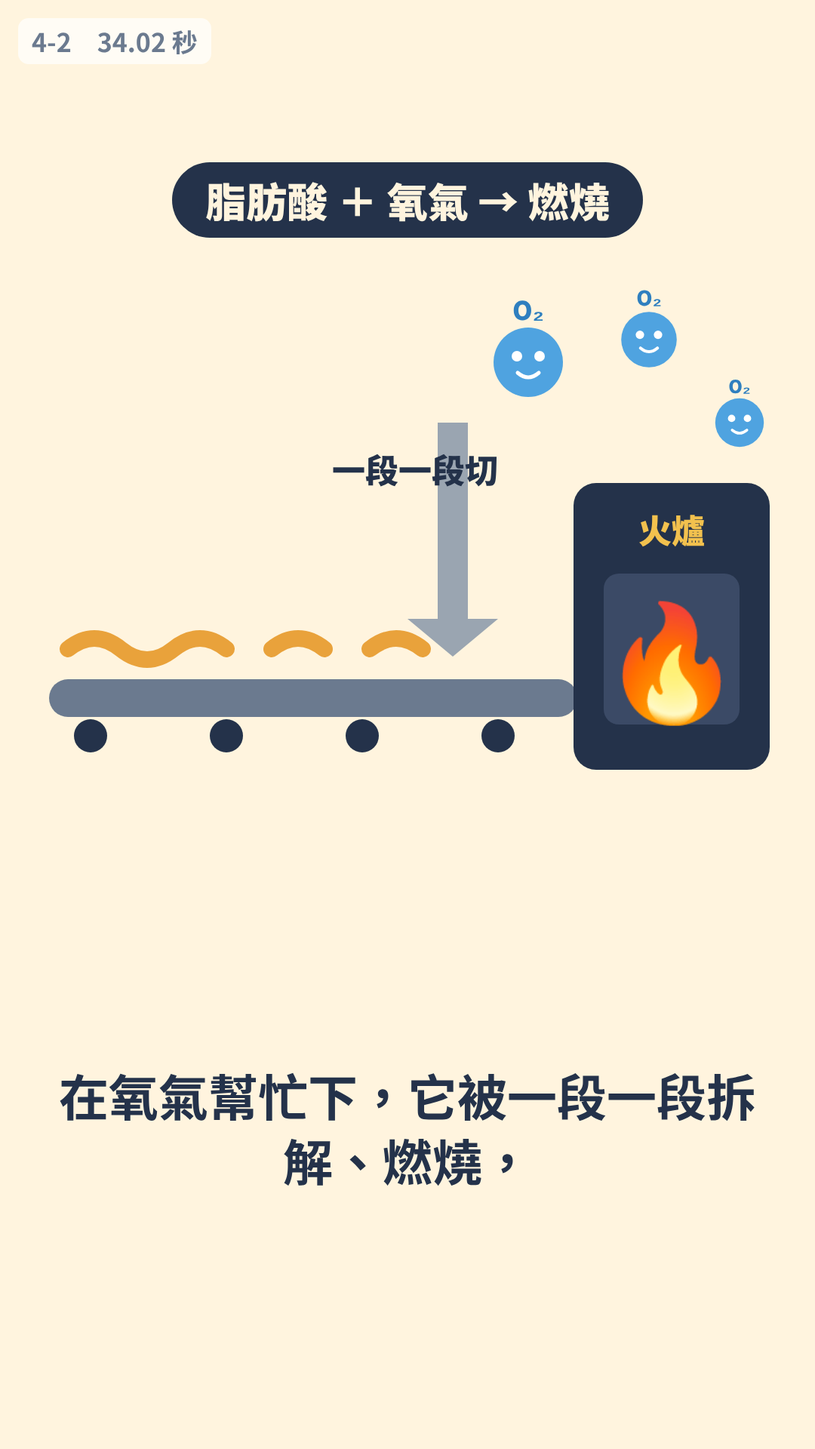
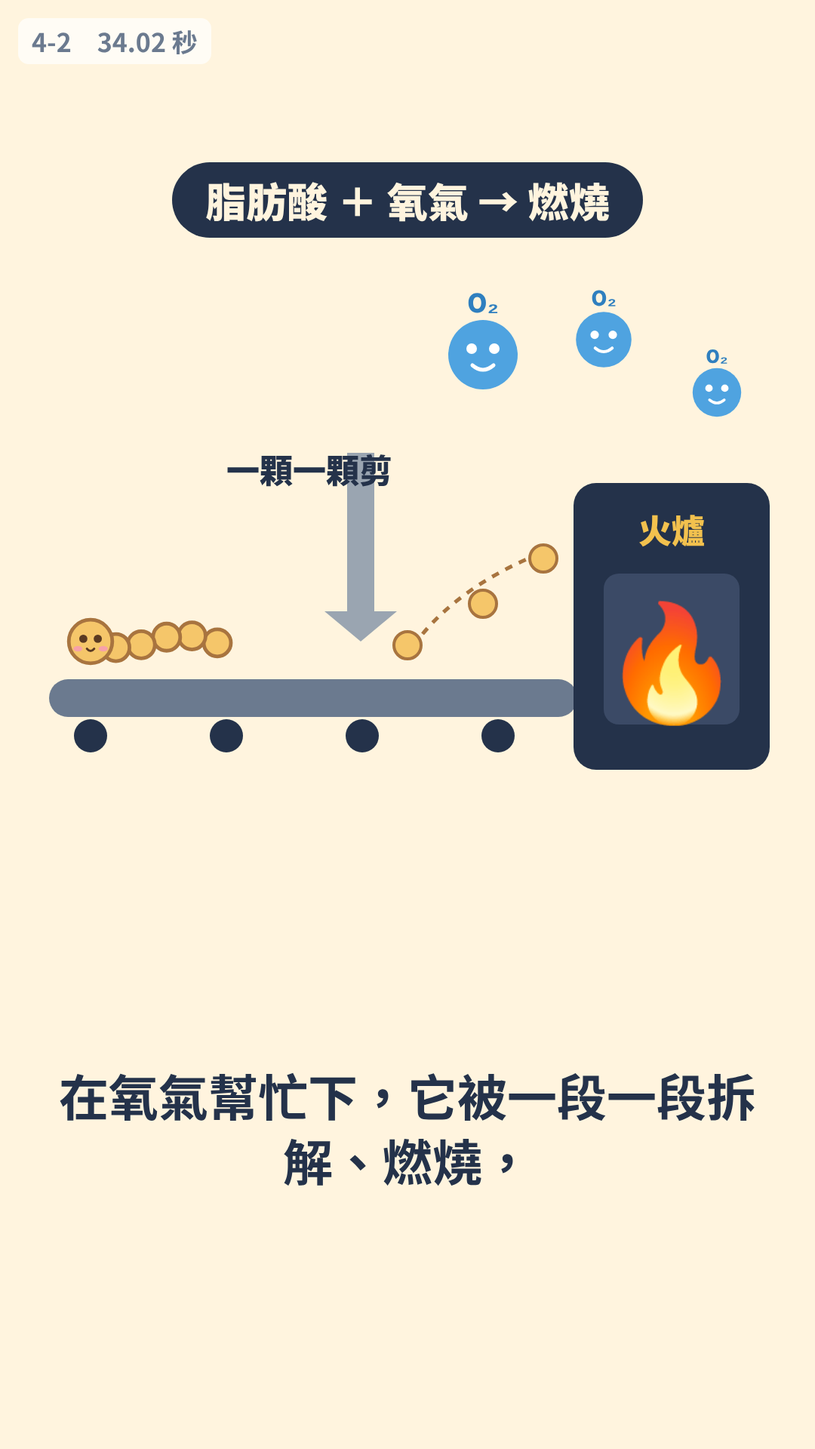
脂肪專案：油油改成麻糬造型＋串珠尾巴、阿肥改成女性、新增角色設定圖
Claude-Session: https://claude.ai/code/session_014fzaRRSj4catvv5FGHfu2h

Changed region(s): [[0.0611, 0.1875, 0.825, 0.4688], [0.8556, 0.25, 0.9472, 0.3125], [0.6417, 0.375, 0.7028, 0.4062]]

diff --git a/projects/where-does-fat-go/storyboard/frames/frames.html b/projects/where-does-fat-go/storyboard/frames/frames.html
@@ -36,57 +36,29 @@
 <!-- 共用角色 -->
 <svg width="0" height="0" style="position:absolute">
   <defs>
-    <!-- 油油：中心(0,0)，寬約 240 -->
-    <g id="yy">
-      <path d="M95,-10 q40,-30 70,-5 t70,-10" fill="none" stroke="#E9A23B" stroke-width="18" stroke-linecap="round"/>
-      <path d="M100,20 q40,-25 70,0 t70,-5" fill="none" stroke="#E9A23B" stroke-width="18" stroke-linecap="round"/>
-      <path d="M95,50 q40,-20 70,5 t70,0" fill="none" stroke="#E9A23B" stroke-width="18" stroke-linecap="round"/>
-      <path d="M0,-120 C70,-60 115,-10 115,40 A115,105 0 0 1 -115,40 C-115,-10 -70,-60 0,-120 Z" fill="#F6C945" stroke="#D9A21B" stroke-width="8"/>
-      <ellipse cx="-45" cy="-10" rx="22" ry="12" fill="#fff" opacity=".6"/>
-      <circle cx="-35" cy="30" r="11" fill="#24324A"/><circle cx="25" cy="30" r="11" fill="#24324A"/>
-      <path d="M-25,62 q20,18 40,0" fill="none" stroke="#24324A" stroke-width="7" stroke-linecap="round"/>
-      <circle cx="-62" cy="58" r="13" fill="#F4A261" opacity=".6"/><circle cx="55" cy="58" r="13" fill="#F4A261" opacity=".6"/>
-    </g>
-    <g id="yy-sleep">
-      <path d="M95,-10 q40,-30 70,-5 t70,-10" fill="none" stroke="#E9A23B" stroke-width="18" stroke-linecap="round"/>
-      <path d="M100,20 q40,-25 70,0 t70,-5" fill="none" stroke="#E9A23B" stroke-width="18" stroke-linecap="round"/>
-      <path d="M95,50 q40,-20 70,5 t70,0" fill="none" stroke="#E9A23B" stroke-width="18" stroke-linecap="round"/>
-      <path d="M0,-120 C70,-60 115,-10 115,40 A115,105 0 0 1 -115,40 C-115,-10 -70,-60 0,-120 Z" fill="#F6C945" stroke="#D9A21B" stroke-width="8"/>
-      <path d="M-48,30 q13,10 26,0 M12,30 q13,10 26,0" fill="none" stroke="#24324A" stroke-width="7" stroke-linecap="round"/>
-      <text x="-30" y="-140" font-size="70" font-weight="900" fill="#6B7A8F">z</text>
-      <text x="10" y="-180" font-size="50" font-weight="900" fill="#6B7A8F">z</text>
-    </g>
-    <!-- 甘油（油油的身體，沒有尾巴） -->
-    <g id="gly">
-      <path d="M0,-120 C70,-60 115,-10 115,40 A115,105 0 0 1 -115,40 C-115,-10 -70,-60 0,-120 Z" fill="#F6C945" stroke="#D9A21B" stroke-width="8"/>
-      <circle cx="-35" cy="30" r="11" fill="#24324A"/><circle cx="25" cy="30" r="11" fill="#24324A"/>
-      <path d="M-25,62 q20,18 40,0" fill="none" stroke="#24324A" stroke-width="7" stroke-linecap="round"/>
-    </g>
-    <!-- 脂肪酸（一條尾巴，有眼睛） -->
-    <g id="fa">
-      <path d="M0,0 q35,-28 70,0 t70,0 t70,0" fill="none" stroke="#E9A23B" stroke-width="22" stroke-linecap="round"/>
-      <circle cx="-2" cy="-3" r="20" fill="#E9A23B"/>
-      <circle cx="-8" cy="-6" r="5" fill="#24324A"/><circle cx="6" cy="-6" r="5" fill="#24324A"/>
-    </g>
-    <!-- 阿肥：腳底在 (0,0)，高約 620 -->
-    <g id="af">
-      <rect x="-70" y="-260" width="58" height="260" rx="22" fill="#2F3E5C"/>
-      <rect x="12" y="-260" width="58" height="260" rx="22" fill="#2F3E5C"/>
-      <ellipse cx="-42" cy="-6" rx="46" ry="20" fill="#24324A"/><ellipse cx="42" cy="-6" rx="46" ry="20" fill="#24324A"/>
-      <path d="M-105,-250 L-95,-430 Q0,-470 95,-430 L105,-250 Z" fill="#FFFFFF" stroke="#D5DCE5" stroke-width="6"/>
-      <path d="M0,-440 l-16,24 l16,120 l16,-120 Z" fill="#4FA3E0"/>
-      <circle cx="0" cy="-525" r="88" fill="#F5C9A6"/>
-      <path d="M-88,-540 Q-80,-630 0,-625 Q85,-630 90,-545 Q60,-585 0,-580 Q-55,-585 -88,-540 Z" fill="#3A2E2A"/>
-      <circle cx="-30" cy="-520" r="10" fill="#24324A"/><circle cx="30" cy="-520" r="10" fill="#24324A"/>
-      <path d="M-26,-480 q26,22 52,0" fill="none" stroke="#24324A" stroke-width="7" stroke-linecap="round"/>
-    </g>
-    <g id="arm-l"><rect x="-150" y="-430" width="46" height="190" rx="22" fill="#FFFFFF" stroke="#D5DCE5" stroke-width="6"/><circle cx="-127" cy="-232" r="26" fill="#F5C9A6"/></g>
-    <g id="arm-r"><rect x="104" y="-430" width="46" height="190" rx="22" fill="#FFFFFF" stroke="#D5DCE5" stroke-width="6"/><circle cx="127" cy="-232" r="26" fill="#F5C9A6"/></g>
-    <!-- 電量條 -->
+    <radialGradient id="mochi" cx="40%" cy="25%" r="85%"><stop offset="0" stop-color="#FFF6D8"/><stop offset=".55" stop-color="#FBE2A0"/><stop offset="1" stop-color="#F2C46E"/></radialGradient>
+    <g id="yy"><circle cx="100.0" cy="-40.0" r="13.0" fill="#F5C66A" stroke="#A8743F" stroke-width="4"/><circle cx="124.0" cy="-31.8" r="12.4" fill="#F5C66A" stroke="#A8743F" stroke-width="4"/><circle cx="148.0" cy="-19.2" r="11.8" fill="#F5C66A" stroke="#A8743F" stroke-width="4"/><circle cx="172.0" cy="-2.2" r="11.2" fill="#F5C66A" stroke="#A8743F" stroke-width="4"/><circle cx="196.0" cy="19.2" r="10.6" fill="#F5C66A" stroke="#A8743F" stroke-width="4"/><circle cx="220.0" cy="45.0" r="10.0" fill="#F5C66A" stroke="#A8743F" stroke-width="4"/><circle cx="112.0" cy="0.0" r="13.0" fill="#F5C66A" stroke="#A8743F" stroke-width="4"/><circle cx="137.0" cy="12.0" r="12.4" fill="#F5C66A" stroke="#A8743F" stroke-width="4"/><circle cx="162.0" cy="28.0" r="11.8" fill="#F5C66A" stroke="#A8743F" stroke-width="4"/><circle cx="187.0" cy="48.0" r="11.2" fill="#F5C66A" stroke="#A8743F" stroke-width="4"/><circle cx="212.0" cy="72.0" r="10.6" fill="#F5C66A" stroke="#A8743F" stroke-width="4"/><circle cx="237.0" cy="100.0" r="10.0" fill="#F5C66A" stroke="#A8743F" stroke-width="4"/><circle cx="104.0" cy="40.0" r="13.0" fill="#F5C66A" stroke="#A8743F" stroke-width="4"/><circle cx="126.0" cy="57.6" r="12.4" fill="#F5C66A" stroke="#A8743F" stroke-width="4"/><circle cx="148.0" cy="78.4" r="11.8" fill="#F5C66A" stroke="#A8743F" stroke-width="4"/><circle cx="170.0" cy="102.4" r="11.2" fill="#F5C66A" stroke="#A8743F" stroke-width="4"/><circle cx="192.0" cy="129.6" r="10.6" fill="#F5C66A" stroke="#A8743F" stroke-width="4"/><circle cx="214.0" cy="160.0" r="10.0" fill="#F5C66A" stroke="#A8743F" stroke-width="4"/><path d="M-122,62 C-132,-40 -72,-112 0,-112 C72,-112 132,-40 122,62 Q119,88 92,90 H-92 Q-119,88 -122,62 Z" fill="url(#mochi)" stroke="#A8743F" stroke-width="7"/><ellipse cx="-62" cy="-70" rx="26" ry="11" fill="#fff" opacity=".85" transform="rotate(-32 -62 -70)"/><circle cx="-30" cy="-88" r="6" fill="#fff" opacity=".85"/><ellipse cx="-78" cy="50" rx="20" ry="12" fill="#F7A1A8" opacity=".8"/><ellipse cx="78" cy="50" rx="20" ry="12" fill="#F7A1A8" opacity=".8"/><circle cx="-46" cy="26" r="15" fill="#5A3A22"/><circle cx="46" cy="26" r="15" fill="#5A3A22"/><circle cx="-41" cy="20" r="5" fill="#fff"/><circle cx="51" cy="20" r="5" fill="#fff"/><path d="M-15,46 q7.5,10 15,0 q7.5,10 15,0" fill="none" stroke="#5A3A22" stroke-width="5" stroke-linecap="round"/></g>
+    <g id="yy-walk"><g transform="translate(0,90) scale(1.12,.86) translate(0,-90)"><circle cx="100.0" cy="-40.0" r="13.0" fill="#F5C66A" stroke="#A8743F" stroke-width="4"/><circle cx="124.0" cy="-31.8" r="12.4" fill="#F5C66A" stroke="#A8743F" stroke-width="4"/><circle cx="148.0" cy="-19.2" r="11.8" fill="#F5C66A" stroke="#A8743F" stroke-width="4"/><circle cx="172.0" cy="-2.2" r="11.2" fill="#F5C66A" stroke="#A8743F" stroke-width="4"/><circle cx="196.0" cy="19.2" r="10.6" fill="#F5C66A" stroke="#A8743F" stroke-width="4"/><circle cx="220.0" cy="45.0" r="10.0" fill="#F5C66A" stroke="#A8743F" stroke-width="4"/><circle cx="112.0" cy="0.0" r="13.0" fill="#F5C66A" stroke="#A8743F" stroke-width="4"/><circle cx="137.0" cy="12.0" r="12.4" fill="#F5C66A" stroke="#A8743F" stroke-width="4"/><circle cx="162.0" cy="28.0" r="11.8" fill="#F5C66A" stroke="#A8743F" stroke-width="4"/><circle cx="187.0" cy="48.0" r="11.2" fill="#F5C66A" stroke="#A8743F" stroke-width="4"/><circle cx="212.0" cy="72.0" r="10.6" fill="#F5C66A" stroke="#A8743F" stroke-width="4"/><circle cx="237.0" cy="100.0" r="10.0" fill="#F5C66A" stroke="#A8743F" stroke-width="4"/><circle cx="104.0" cy="40.0" r="13.0" fill="#F5C66A" stroke="#A8743F" stroke-width="4"/><circle cx="126.0" cy="57.6" r="12.4" fill="#F5C66A" stroke="#A8743F" stroke-width="4"/><circle cx="148.0" cy="78.4" r="11.8" fill="#F5C66A" stroke="#A8743F" stroke-width="4"/><circle cx="170.0" cy="102.4" r="11.2" fill="#F5C66A" stroke="#A8743F" stroke-width="4"/><circle cx="192.0" cy="129.6" r="10.6" fill="#F5C66A" stroke="#A8743F" stroke-width="4"/><circle cx="214.0" cy="160.0" r="10.0" fill="#F5C66A" stroke="#A8743F" stroke-width="4"/><path d="M-122,62 C-132,-40 -72,-112 0,-112 C72,-112 132,-40 122,62 Q119,88 92,90 H-92 Q-119,88 -122,62 Z" fill="url(#mochi)" stroke="#A8743F" stroke-width="7"/><ellipse cx="-62" cy="-70" rx="26" ry="11" fill="#fff" opacity=".85" transform="rotate(-32 -62 -70)"/><circle cx="-30" cy="-88" r="6" fill="#fff" opacity=".85"/><ellipse cx="-78" cy="50" rx="20" ry="12" fill="#F7A1A8" opacity=".8"/><ellipse cx="78" cy="50" rx="20" ry="12" fill="#F7A1A8" opacity=".8"/><circle cx="-46" cy="26" r="15" fill="#5A3A22"/><circle cx="46" cy="26" r="15" fill="#5A3A22"/><circle cx="-41" cy="20" r="5" fill="#fff"/><circle cx="51" cy="20" r="5" fill="#fff"/><path d="M-15,46 q7.5,10 15,0 q7.5,10 15,0" fill="none" stroke="#5A3A22" stroke-width="5" stroke-linecap="round"/></g></g>
+    <g id="yy-sleep"><circle cx="100.0" cy="-40.0" r="13.0" fill="#F5C66A" stroke="#A8743F" stroke-width="4"/><circle cx="124.0" cy="-31.8" r="12.4" fill="#F5C66A" stroke="#A8743F" stroke-width="4"/><circle cx="148.0" cy="-19.2" r="11.8" fill="#F5C66A" stroke="#A8743F" stroke-width="4"/><circle cx="172.0" cy="-2.2" r="11.2" fill="#F5C66A" stroke="#A8743F" stroke-width="4"/><circle cx="196.0" cy="19.2" r="10.6" fill="#F5C66A" stroke="#A8743F" stroke-width="4"/><circle cx="220.0" cy="45.0" r="10.0" fill="#F5C66A" stroke="#A8743F" stroke-width="4"/><circle cx="112.0" cy="0.0" r="13.0" fill="#F5C66A" stroke="#A8743F" stroke-width="4"/><circle cx="137.0" cy="12.0" r="12.4" fill="#F5C66A" stroke="#A8743F" stroke-width="4"/><circle cx="162.0" cy="28.0" r="11.8" fill="#F5C66A" stroke="#A8743F" stroke-width="4"/><circle cx="187.0" cy="48.0" r="11.2" fill="#F5C66A" stroke="#A8743F" stroke-width="4"/><circle cx="212.0" cy="72.0" r="10.6" fill="#F5C66A" stroke="#A8743F" stroke-width="4"/><circle cx="237.0" cy="100.0" r="10.0" fill="#F5C66A" stroke="#A8743F" stroke-width="4"/><circle cx="104.0" cy="40.0" r="13.0" fill="#F5C66A" stroke="#A8743F" stroke-width="4"/><circle cx="126.0" cy="57.6" r="12.4" fill="#F5C66A" stroke="#A8743F" stroke-width="4"/><circle cx="148.0" cy="78.4" r="11.8" fill="#F5C66A" stroke="#A8743F" stroke-width="4"/><circle cx="170.0" cy="102.4" r="11.2" fill="#F5C66A" stroke="#A8743F" stroke-width="4"/><circle cx="192.0" cy="129.6" r="10.6" fill="#F5C66A" stroke="#A8743F" stroke-width="4"/><circle cx="214.0" cy="160.0" r="10.0" fill="#F5C66A" stroke="#A8743F" stroke-width="4"/><path d="M-122,62 C-132,-40 -72,-112 0,-112 C72,-112 132,-40 122,62 Q119,88 92,90 H-92 Q-119,88 -122,62 Z" fill="url(#mochi)" stroke="#A8743F" stroke-width="7"/><ellipse cx="-62" cy="-70" rx="26" ry="11" fill="#fff" opacity=".85" transform="rotate(-32 -62 -70)"/><circle cx="-30" cy="-88" r="6" fill="#fff" opacity=".85"/><ellipse cx="-78" cy="50" rx="20" ry="12" fill="#F7A1A8" opacity=".8"/><ellipse cx="78" cy="50" rx="20" ry="12" fill="#F7A1A8" opacity=".8"/><path d="M-60,28 q14,12 28,0 M32,28 q14,12 28,0" fill="none" stroke="#5A3A22" stroke-width="6" stroke-linecap="round"/><circle cx="38" cy="58" r="22" fill="#D6ECFF" stroke="#8FBCE6" stroke-width="4" opacity=".9"/><circle cx="31" cy="51" r="5" fill="#fff"/>
+      <text x="40" y="-130" font-size="60" font-weight="900" fill="#A8743F">z</text><text x="80" y="-170" font-size="42" font-weight="900" fill="#A8743F">z</text></g>
+    <g id="yy-shock"><circle cx="77.1" cy="-101.9" r="13.0" fill="#F5C66A" stroke="#A8743F" stroke-width="4"/><circle cx="96.4" cy="-124.9" r="12.4" fill="#F5C66A" stroke="#A8743F" stroke-width="4"/><circle cx="115.7" cy="-147.9" r="11.8" fill="#F5C66A" stroke="#A8743F" stroke-width="4"/><circle cx="135.0" cy="-170.9" r="11.2" fill="#F5C66A" stroke="#A8743F" stroke-width="4"/><circle cx="154.3" cy="-193.9" r="10.6" fill="#F5C66A" stroke="#A8743F" stroke-width="4"/><circle cx="173.6" cy="-216.8" r="10.0" fill="#F5C66A" stroke="#A8743F" stroke-width="4"/><circle cx="115.9" cy="-41.1" r="13.0" fill="#F5C66A" stroke="#A8743F" stroke-width="4"/><circle cx="144.9" cy="-48.8" r="12.4" fill="#F5C66A" stroke="#A8743F" stroke-width="4"/><circle cx="173.9" cy="-56.6" r="11.8" fill="#F5C66A" stroke="#A8743F" stroke-width="4"/><circle cx="202.8" cy="-64.4" r="11.2" fill="#F5C66A" stroke="#A8743F" stroke-width="4"/><circle cx="231.8" cy="-72.1" r="10.6" fill="#F5C66A" stroke="#A8743F" stroke-width="4"/><circle cx="260.8" cy="-79.9" r="10.0" fill="#F5C66A" stroke="#A8743F" stroke-width="4"/><circle cx="112.8" cy="31.0" r="13.0" fill="#F5C66A" stroke="#A8743F" stroke-width="4"/><circle cx="141.0" cy="41.3" r="12.4" fill="#F5C66A" stroke="#A8743F" stroke-width="4"/><circle cx="169.1" cy="51.6" r="11.8" fill="#F5C66A" stroke="#A8743F" stroke-width="4"/><circle cx="197.3" cy="61.8" r="11.2" fill="#F5C66A" stroke="#A8743F" stroke-width="4"/><circle cx="225.5" cy="72.1" r="10.6" fill="#F5C66A" stroke="#A8743F" stroke-width="4"/><circle cx="253.7" cy="82.3" r="10.0" fill="#F5C66A" stroke="#A8743F" stroke-width="4"/><path d="M-122,62 C-132,-40 -72,-112 0,-112 C72,-112 132,-40 122,62 Q119,88 92,90 H-92 Q-119,88 -122,62 Z" fill="url(#mochi)" stroke="#A8743F" stroke-width="7"/><ellipse cx="-62" cy="-70" rx="26" ry="11" fill="#fff" opacity=".85" transform="rotate(-32 -62 -70)"/><circle cx="-30" cy="-88" r="6" fill="#fff" opacity=".85"/><ellipse cx="-78" cy="50" rx="20" ry="12" fill="#F7A1A8" opacity=".8"/><ellipse cx="78" cy="50" rx="20" ry="12" fill="#F7A1A8" opacity=".8"/><circle cx="-46" cy="22" r="20" fill="#fff" stroke="#5A3A22" stroke-width="5"/><circle cx="46" cy="22" r="20" fill="#fff" stroke="#5A3A22" stroke-width="5"/><circle cx="-46" cy="22" r="7" fill="#5A3A22"/><circle cx="46" cy="22" r="7" fill="#5A3A22"/><ellipse cx="0" cy="56" rx="11" ry="14" fill="#5A3A22"/><path d="M-120,-120 l-20,-30 M120,-120 l20,-30 M0,-140 v-36" stroke="#E76F51" stroke-width="8" stroke-linecap="round"/></g>
+    <!-- 甘油寶寶 -->
+    <g id="gly"><path d="M-70,40 C-76,-20 -42,-66 0,-66 C42,-66 76,-20 70,40 Q68,54 52,55 H-52 Q-68,54 -70,40 Z" fill="url(#mochi)" stroke="#A8743F" stroke-width="6"/>
+      <ellipse cx="-36" cy="-40" rx="14" ry="6" fill="#fff" opacity=".85" transform="rotate(-30 -36 -40)"/>
+      <circle cx="-24" cy="12" r="9" fill="#5A3A22"/><circle cx="24" cy="12" r="9" fill="#5A3A22"/><circle cx="-21" cy="9" r="3" fill="#fff"/><circle cx="27" cy="9" r="3" fill="#fff"/>
+      <ellipse cx="-44" cy="28" rx="11" ry="7" fill="#F7A1A8"/><ellipse cx="44" cy="28" rx="11" ry="7" fill="#F7A1A8"/>
+      <path d="M-8,28 q4,6 8,0 q4,6 8,0" fill="none" stroke="#5A3A22" stroke-width="3.5" stroke-linecap="round"/></g>
+    <!-- 脂肪酸毛毛蟲（頭在 0,0，往右延伸約 160） -->
+    <g id="fa"><circle cx="140.0" cy="1.5" r="15" fill="#F5C66A" stroke="#A8743F" stroke-width="4"/><circle cx="112.0" cy="-6.2" r="15" fill="#F5C66A" stroke="#A8743F" stroke-width="4"/><circle cx="84.0" cy="-4.8" r="15" fill="#F5C66A" stroke="#A8743F" stroke-width="4"/><circle cx="56.0" cy="3.6" r="15" fill="#F5C66A" stroke="#A8743F" stroke-width="4"/><circle cx="28.0" cy="6.7" r="15" fill="#F5C66A" stroke="#A8743F" stroke-width="4"/><circle cx="0" cy="0" r="24" fill="#F5C66A" stroke="#A8743F" stroke-width="4"/><circle cx="-8" cy="-3" r="4.5" fill="#5A3A22"/><circle cx="8" cy="-3" r="4.5" fill="#5A3A22"/><ellipse cx="-14" cy="8" rx="5" ry="3" fill="#F7A1A8"/><ellipse cx="14" cy="8" rx="5" ry="3" fill="#F7A1A8"/><path d="M-4,8 q4,5 8,0" fill="none" stroke="#5A3A22" stroke-width="2.5" stroke-linecap="round"/></g>
+    <!-- 阿肥（女性）：腳底在 (0,0) -->
+    <g id="af"><path d="M-104,-528 Q-112,-648 0,-648 Q112,-648 104,-528 L110,-430 Q70,-420 56,-460 L-56,-460 Q-70,-420 -110,-430 Z" fill="#4A3328"/><rect x="-68" y="-260" width="56" height="260" rx="22" fill="#2F3E5C"/><rect x="12" y="-260" width="56" height="260" rx="22" fill="#2F3E5C"/><ellipse cx="-40" cy="-6" rx="42" ry="18" fill="#C25E5E"/><ellipse cx="40" cy="-6" rx="42" ry="18" fill="#C25E5E"/><path d="M-100,-250 L-92,-425 Q0,-462 92,-425 L100,-250 Z" fill="#F6B7B0" stroke="#E89A92" stroke-width="5"/><path d="M-34,-440 L0,-395 L34,-440 Z" fill="#fff"/><circle cx="0" cy="-525" r="86" fill="#F7CDAE"/><path d="M-88,-540 Q-84,-626 0,-624 Q84,-626 88,-540 Q72,-578 30,-584 Q10,-560 -20,-586 Q-60,-584 -88,-540 Z" fill="#4A3328"/><circle cx="-30" cy="-516" r="10" fill="#5A3A22"/><circle cx="30" cy="-516" r="10" fill="#5A3A22"/><path d="M-48,-552 q18,-10 36,-2 M12,-554 q18,-8 36,2" fill="none" stroke="#4A3328" stroke-width="5" stroke-linecap="round"/><ellipse cx="-52" cy="-490" rx="14" ry="8" fill="#F7A1A8" opacity=".8"/><ellipse cx="52" cy="-490" rx="14" ry="8" fill="#F7A1A8" opacity=".8"/><path d="M-22,-482 q22,18 44,0" fill="none" stroke="#B5524F" stroke-width="6" stroke-linecap="round"/></g>
+    <g id="arm-l"><rect x="-146" y="-425" width="44" height="185" rx="22" fill="#F6B7B0" stroke="#E89A92" stroke-width="5"/><circle cx="-124" cy="-232" r="24" fill="#F7CDAE"/></g>
+    <g id="arm-r"><rect x="102" y="-425" width="44" height="185" rx="22" fill="#F6B7B0" stroke="#E89A92" stroke-width="5"/><circle cx="124" cy="-232" r="24" fill="#F7CDAE"/></g>
     <g id="batt-frame"><rect x="0" y="0" width="300" height="120" rx="24" fill="#fff" stroke="#24324A" stroke-width="10"/><rect x="300" y="35" width="22" height="50" rx="8" fill="#24324A"/></g>
-    <!-- CO2 泡泡、水滴 -->
-    <g id="co2"><circle r="44" fill="#C9D1DA" stroke="#9AA5B1" stroke-width="6"/><text y="13" text-anchor="middle" font-size="34" font-weight="900" fill="#4A5566">CO₂</text></g>
-    <g id="h2o"><path d="M0,-48 C18,-20 34,0 34,18 A34,34 0 0 1 -34,18 C-34,0 -18,-20 0,-48 Z" fill="#4FA3E0" stroke="#2F7FBF" stroke-width="5"/><ellipse cx="-10" cy="10" rx="8" ry="12" fill="#fff" opacity=".6"/></g>
+    <g id="co2"><circle r="46" fill="#D5DEE7" stroke="#8C9AAA" stroke-width="5"/><ellipse cx="-18" cy="-24" rx="10" ry="5" fill="#fff" opacity=".9" transform="rotate(-30 -18 -24)"/><text y="-8" text-anchor="middle" font-size="24" font-weight="900" fill="#5B6878">CO₂</text><circle cx="-14" cy="12" r="5" fill="#3E4A5A"/><circle cx="14" cy="12" r="5" fill="#3E4A5A"/><ellipse cx="-27" cy="22" rx="7" ry="4" fill="#F7A1A8"/><ellipse cx="27" cy="22" rx="7" ry="4" fill="#F7A1A8"/><path d="M-5,22 q5,6 10,0" fill="none" stroke="#3E4A5A" stroke-width="3" stroke-linecap="round"/></g>
+    <g id="co2-wave"><circle r="46" fill="#D5DEE7" stroke="#8C9AAA" stroke-width="5"/><ellipse cx="-18" cy="-24" rx="10" ry="5" fill="#fff" opacity=".9" transform="rotate(-30 -18 -24)"/><text y="-8" text-anchor="middle" font-size="24" font-weight="900" fill="#5B6878">CO₂</text><circle cx="-14" cy="12" r="5" fill="#3E4A5A"/><circle cx="14" cy="12" r="5" fill="#3E4A5A"/><ellipse cx="-27" cy="22" rx="7" ry="4" fill="#F7A1A8"/><ellipse cx="27" cy="22" rx="7" ry="4" fill="#F7A1A8"/><path d="M-5,22 q5,6 10,0" fill="none" stroke="#3E4A5A" stroke-width="3" stroke-linecap="round"/><path d="M40,-10 q22,-14 18,-36" fill="none" stroke="#8C9AAA" stroke-width="7" stroke-linecap="round"/><circle cx="58" cy="-48" r="9" fill="#D5DEE7" stroke="#8C9AAA" stroke-width="4"/></g>
+    <g id="h2o"><path d="M0,-48 C18,-20 34,0 34,18 A34,34 0 0 1 -34,18 C-34,0 -18,-20 0,-48 Z" fill="#7FC0EE" stroke="#2F7FBF" stroke-width="5"/><ellipse cx="-12" cy="0" rx="6" ry="10" fill="#fff" opacity=".7"/>
+      <circle cx="-9" cy="18" r="3.5" fill="#1E4E7A"/><circle cx="9" cy="18" r="3.5" fill="#1E4E7A"/></g>
     <g id="o2"><circle r="46" fill="#4FA3E0"/><circle cx="-15" cy="-8" r="7" fill="#fff"/><circle cx="15" cy="-8" r="7" fill="#fff"/><path d="M-14,14 q14,12 28,0" fill="none" stroke="#fff" stroke-width="5" stroke-linecap="round"/><text y="-56" text-anchor="middle" font-size="34" font-weight="900" fill="#2F7FBF">O₂</text></g>
     <g id="atp"><rect x="-60" y="-34" width="120" height="68" rx="14" fill="#F2C14E" stroke="#24324A" stroke-width="6"/><rect x="60" y="-14" width="12" height="28" rx="4" fill="#24324A"/><text y="13" text-anchor="middle" font-size="34" font-weight="900" fill="#24324A">ATP</text></g>
   </defs>
@@ -206,14 +178,14 @@
     <rect x="65" y="400" width="150" height="880" fill="#E9A23B" opacity=".6"/><rect x="865" y="400" width="150" height="880" fill="#E9A23B" opacity=".6"/>
     <rect x="215" y="440" width="650" height="800" fill="#FFF4DE"/>
     <g stroke="#B5763A" stroke-width="14"><path d="M215,740 H865 M215,1040 H865"/></g>
-    <g transform="translate(320,660) scale(.42)"><use href="#yy-sleep"/></g>
-    <g transform="translate(540,660) scale(.42)"><use href="#yy"/></g>
-    <g transform="translate(760,660) scale(.42)"><use href="#yy-sleep"/></g>
-    <g transform="translate(320,960) scale(.42)"><use href="#yy-sleep"/></g>
-    <g transform="translate(540,960) scale(.42)"><use href="#yy"/></g>
-    <g transform="translate(760,960) scale(.42)"><use href="#yy-sleep"/></g>
-    <text x="830" y="560" font-size="110" class="emo">⏰</text>
-  </svg>
+    <g transform="translate(290,690) scale(.5)"><use href="#yy-sleep"/></g>
+    <g transform="translate(510,690) scale(.5)"><use href="#yy-sleep"/></g>
+    <g transform="translate(700,690) scale(.5)"><use href="#yy-shock"/></g>
+    <g transform="translate(290,990) scale(.5)"><use href="#yy-sleep"/></g>
+    <g transform="translate(510,990) scale(.5)"><use href="#yy-sleep"/></g>
+    <g transform="translate(700,990) scale(.5)"><use href="#yy-sleep"/></g>
+    <text x="760" y="560" font-size="110" class="emo">⏰</text>
+</svg>
   <div class="cap">當吃進來的熱量不夠用，身體就會動用存起來的脂肪。</div>
 </div>
 
@@ -247,13 +219,14 @@
       <text x="165" y="185" text-anchor="middle" font-size="44" font-weight="900" fill="#E76F51">需要能量！</text>
     </g>
     <path d="M470,520 q80,-40 140,30" fill="none" stroke="#6B7A8F" stroke-width="6" stroke-dasharray="14 14"/>
-    <g transform="translate(400,920) scale(1.2)"><use href="#gly"/></g>
-    <g transform="translate(620,820) rotate(-15)"><use href="#fa"/></g>
-    <g transform="translate(640,930) rotate(5)"><use href="#fa"/></g>
-    <g transform="translate(610,1040) rotate(20)"><use href="#fa"/></g>
-    <text x="500" y="800" font-size="120" class="emo">✂</text>
-    <text x="540" y="1230" text-anchor="middle" font-size="46" font-weight="700" fill="#6B7A8F">一條一條剪下來</text>
-  </svg>
+    <g transform="translate(320,960) scale(1.5)"><use href="#gly"/></g>
+    <text x="320" y="1130" text-anchor="middle" font-size="46" font-weight="900" fill="#A8743F">甘油寶寶</text>
+    <g transform="translate(640,800) scale(1.3)"><use href="#fa"/></g>
+    <g transform="translate(640,930) scale(1.3)"><use href="#fa"/></g>
+    <g transform="translate(640,1060) scale(1.3)"><use href="#fa"/></g>
+    <text x="760" y="1150" text-anchor="middle" font-size="46" font-weight="900" fill="#A8743F">脂肪酸 ×3</text>
+    <text x="470" y="760" font-size="110" class="emo">✂</text>
+</svg>
   <div class="cap">身體一發出「需要能量」的訊號，它就被拆開。</div>
 </div>
 
@@ -269,14 +242,14 @@
     <g transform="translate(330,640)">
       <rect width="380" height="170" rx="36" fill="#4FA3E0" stroke="#24324A" stroke-width="8"/>
       <rect x="20" y="20" width="340" height="70" rx="12" fill="#fff"/>
-      <g transform="translate(40,60) scale(.5)"><use href="#fa"/></g><g transform="translate(150,60) scale(.5)"><use href="#fa"/></g><g transform="translate(260,60) scale(.5)"><use href="#fa"/></g>
+      <g transform="translate(50,55) scale(.55)"><use href="#fa"/></g><g transform="translate(160,55) scale(.55)"><use href="#fa"/></g><g transform="translate(270,55) scale(.55)"><use href="#fa"/></g>
       <circle cx="80" cy="175" r="32" fill="#24324A"/><circle cx="300" cy="175" r="32" fill="#24324A"/>
     </g>
     <g transform="translate(830,500)"><rect width="200" height="90" rx="20" fill="#7CC47F"/><text x="100" y="62" text-anchor="middle" font-size="44" font-weight="900" fill="#fff">肌肉 ▶</text></g>
     <!-- 小車 -->
     <g transform="translate(260,1030)">
       <rect width="260" height="130" rx="30" fill="#F4A261" stroke="#24324A" stroke-width="8"/>
-      <g transform="translate(130,60) scale(.35)"><use href="#gly"/></g>
+      <g transform="translate(130,58) scale(.6)"><use href="#gly"/></g>
       <circle cx="60" cy="135" r="28" fill="#24324A"/><circle cx="200" cy="135" r="28" fill="#24324A"/>
     </g>
     <g transform="translate(830,900)"><rect width="200" height="90" rx="20" fill="#B5763A"/><text x="100" y="62" text-anchor="middle" font-size="44" font-weight="900" fill="#fff">肝臟 ▶</text></g>
@@ -310,19 +283,21 @@
   <svg class="art" width="1080" height="1920">
     <rect x="65" y="900" width="700" height="50" rx="25" fill="#6B7A8F"/>
     <g fill="#24324A"><circle cx="120" cy="975" r="22"/><circle cx="300" cy="975" r="22"/><circle cx="480" cy="975" r="22"/><circle cx="660" cy="975" r="22"/></g>
-    <path d="M90,860 q35,-28 70,0 t70,0 t70,0" fill="none" stroke="#E9A23B" stroke-width="22" stroke-linecap="round"/>
-    <path d="M360,860 q35,-28 70,0" fill="none" stroke="#E9A23B" stroke-width="22" stroke-linecap="round"/>
-    <path d="M490,860 q35,-28 70,0" fill="none" stroke="#E9A23B" stroke-width="22" stroke-linecap="round"/>
-    <rect x="580" y="560" width="40" height="260" fill="#9AA5B1"/><path d="M540,820 h120 l-60,50 z" fill="#9AA5B1"/>
-    <text x="440" y="640" font-size="44" font-weight="900" fill="#24324A">一段一段切</text>
+    <g transform="translate(120,850) scale(1.2)"><use href="#fa"/></g>
+    <circle cx="540" cy="855" r="18" fill="#F5C66A" stroke="#A8743F" stroke-width="4"/>
+    <circle cx="640" cy="800" r="18" fill="#F5C66A" stroke="#A8743F" stroke-width="4"/>
+    <circle cx="720" cy="740" r="18" fill="#F5C66A" stroke="#A8743F" stroke-width="4"/>
+    <path d="M560,840 q50,-60 140,-100" fill="none" stroke="#A8743F" stroke-width="5" stroke-dasharray="10 10"/>
+    <rect x="460" y="600" width="36" height="210" fill="#9AA5B1"/><path d="M430,810 h96 l-48,40 z" fill="#9AA5B1"/>
+    <text x="300" y="640" font-size="44" font-weight="900" fill="#24324A">一顆一顆剪</text>
     <rect x="760" y="640" width="260" height="380" rx="30" fill="#24324A"/>
     <rect x="800" y="760" width="180" height="200" rx="20" fill="#3B4A66"/>
     <text x="890" y="930" text-anchor="middle" font-size="150" class="emo">🔥</text>
     <text x="890" y="720" text-anchor="middle" font-size="44" font-weight="900" fill="#F2C14E">火爐</text>
-    <g transform="translate(700,480)"><use href="#o2"/></g>
-    <g transform="translate(860,450) scale(.8)"><use href="#o2"/></g>
-    <g transform="translate(980,560) scale(.7)"><use href="#o2"/></g>
-  </svg>
+    <g transform="translate(640,470)"><use href="#o2"/></g>
+    <g transform="translate(800,450) scale(.8)"><use href="#o2"/></g>
+    <g transform="translate(950,520) scale(.7)"><use href="#o2"/></g>
+</svg>
   <div class="cap">在氧氣幫忙下，它被一段一段拆解、燃燒，</div>
 </div>
 
@@ -366,16 +341,18 @@
   <div class="head"><span>84% → 二氧化碳，呼出去</span></div>
   <svg class="art" width="1080" height="1920">
     <!-- 側臉 -->
-    <circle cx="260" cy="620" r="150" fill="#F5C9A6"/>
-    <path d="M110,600 Q110,450 260,450 Q400,450 410,560 Q330,510 260,520 Q170,520 110,600Z" fill="#3A2E2A"/>
-    <circle cx="320" cy="600" r="12" fill="#24324A"/>
-    <ellipse cx="402" cy="680" rx="20" ry="26" fill="#24324A"/>
+    <path d="M92,620 Q84,445 262,442 Q420,448 412,575 L300,540 Q190,560 178,700 L190,820 Q112,830 96,730 Z" fill="#4A3328"/>
+    <circle cx="260" cy="620" r="150" fill="#F7CDAE"/>
+    <path d="M150,560 Q170,450 280,452 Q400,458 412,575 Q360,520 300,535 Q230,520 150,560Z" fill="#4A3328"/>
+    <circle cx="320" cy="606" r="12" fill="#5A3A22"/><path d="M330,596 l12,-8" stroke="#5A3A22" stroke-width="4" stroke-linecap="round"/>
+    <ellipse cx="300" cy="660" rx="22" ry="12" fill="#F7A1A8" opacity=".8"/>
+    <ellipse cx="402" cy="680" rx="20" ry="26" fill="#B5524F"/>
     <!-- 肺 -->
     <path d="M200,900 C120,900 100,1080 140,1200 C170,1260 250,1250 260,1180 L260,930 Z" fill="#F4A3A3" stroke="#C25555" stroke-width="8"/>
     <path d="M320,900 C400,900 420,1080 380,1200 C350,1260 270,1250 260,1180 L260,930 Z" fill="#F4A3A3" stroke="#C25555" stroke-width="8"/>
     <path d="M260,780 V940" stroke="#C25555" stroke-width="16"/>
-    <g transform="translate(470,640) scale(.7)"><use href="#co2"/></g><g transform="translate(560,590) scale(.8)"><use href="#co2"/></g>
-    <g transform="translate(640,680) scale(.6)"><use href="#co2"/></g><g transform="translate(220,1060) scale(.5)"><use href="#co2"/></g><g transform="translate(300,1120) scale(.5)"><use href="#co2"/></g>
+    <g transform="translate(480,640) scale(.8)"><use href="#co2-wave"/></g><g transform="translate(600,560) scale(1)"><use href="#co2-wave"/></g>
+    <g transform="translate(700,700) scale(.75)"><use href="#co2-wave"/></g><g transform="translate(220,1060) scale(.5)"><use href="#co2"/></g><g transform="translate(300,1120) scale(.5)"><use href="#co2"/></g>
     <!-- 圓餅 -->
     <circle cx="790" cy="1020" r="190" fill="#E8EEF3"/>
     <path d="M790,1020 L790,830 A190,190 0 1 1 615.6,944.6 Z" fill="#9AA5B1"/>
@@ -440,12 +417,33 @@
       <text x="220" y="850" text-anchor="middle" font-size="50" font-weight="900" fill="#24324A">攝取</text>
       <text x="860" y="850" text-anchor="middle" font-size="50" font-weight="900" fill="#24324A">消耗</text>
     </g>
-    <g transform="translate(300,1180) scale(.55)"><use href="#yy"/></g>
+    <g transform="translate(260,1170) scale(.6)"><use href="#yy"/></g>
     <text x="380" y="1110" font-size="70" class="emo">👋</text>
     <text x="760" y="1200" text-anchor="middle" font-size="44" font-weight="700" fill="#6B7A8F">規律走路・好好吃飯</text>
   </svg>
   <div class="sub">刻意大口喘氣不會多燒脂肪</div>
   <div class="cap">長期維持熱量赤字，才是減脂的關鍵。</div>
+</div>
+
+<div class="frame" id="charsheet" style="width:1920px;height:1240px">
+  <div style="position:absolute;left:60px;top:40px;font-size:64px;font-weight:900">角色設定：油油（新版）＋ 阿肥（女性）</div>
+  <svg class="art" width="1920" height="1240">
+    <g font-weight="900" font-size="40" fill="#24324A" text-anchor="middle">
+      <g transform="translate(200,380) scale(1.1)"><use href="#yy"/></g><text x="220" y="560">正面</text>
+      <text x="220" y="608" font-size="30" font-weight="700" fill="#6B7A8F">麻糬身體・串珠尾巴</text>
+      <g transform="translate(630,380) scale(1.1)"><use href="#yy-walk"/></g><text x="650" y="560">走路 Q 彈壓扁</text>
+      <g transform="translate(1060,380) scale(1.1)"><use href="#yy-sleep"/></g><text x="1080" y="560">睡覺・鼻涕泡泡</text>
+      <g transform="translate(1440,380) scale(1.1)"><use href="#yy-shock"/></g><text x="1460" y="560">鬧鐘嚇到・尾巴炸開</text>
+      <g transform="translate(200,860) scale(1.2)"><use href="#gly"/></g><text x="200" y="980">甘油寶寶</text>
+      <g transform="translate(400,760)"><use href="#fa"/></g><g transform="translate(400,850)"><use href="#fa"/></g><g transform="translate(400,940)"><use href="#fa"/></g>
+      <text x="480" y="1010">脂肪酸毛毛蟲 ×3</text>
+      <text x="340" y="1080" font-size="30" font-weight="700" fill="#6B7A8F">被剪開以後</text>
+      <g transform="translate(790,840) scale(1.5)"><use href="#co2-wave"/></g><text x="800" y="980">CO₂ 小泡泡揮手</text>
+      <g transform="translate(1080,860) scale(1.3)"><use href="#h2o"/></g><text x="1080" y="980">小水滴</text>
+      <g transform="translate(1450,1160) scale(.85)"><use href="#af"/><use href="#arm-l"/><use href="#arm-r"/></g>
+      <text x="1700" y="900">阿肥</text><text x="1700" y="950" font-size="30" font-weight="700" fill="#6B7A8F">減重中的上班族</text>
+    </g>
+  </svg>
 </div>
 </body>
 </html>

diff --git a/projects/where-does-fat-go/storyboard/storyboard.md b/projects/where-does-fat-go/storyboard/storyboard.md
@@ -5,6 +5,7 @@
 - 時間來源：timing/lines.json（faster-whisper 對齊逐字稿，相似度 99%）
 - 風格：使用者指定「明亮 2D 扁平動畫」，奶油底＋深藍字（覆蓋 design-system.md 的深藍底）；身體內部＝城市；全部動畫（不拍真人）
 - 每格畫面：上方深藍膠囊＝使用者給的畫面大字；下方＝口播字幕（成片會切成一行 ≤13 字）
+- 角色：見 `frames/charsheet.png`（油油新版麻糬造型；阿肥是女性）
 - 關鍵格圖：`frames/f<編號>.png`、總表 `frames/storyboard-sheet-1～3.png`
 
 | # | 畫面 | 起 | 訖 | 該句文字 | 類型 | 畫面大字 | 畫面描述 | 為什麼這樣配 |
@@ -14,15 +15,15 @@
 | 3 | 1-3 | 6.08 | 8.14 | 答案，跟你想的不一樣。 | 全 | 主要答案不在這裡！ | 三個泡泡同時破掉 → 圓形鏡頭推進阿肥肚子，看到「身體城市」（倉庫、道路、建築） | 轉場 |
 | 4 | 2-1 | 8.14 | 11.78 | 身體隨時都在消耗能量，連睡覺都不例外。 | 全 | 24小時都在耗電 | 身體城市俯瞰：❤心臟跳、🧠大腦亮燈、💪肌肉搬📦、😴睡覺；右上電量條持續下降 | 概念 |
 | 5 | 2-2 | 11.78 | 14.02 | 能量主要來自醣類和脂肪。 | 全 | 能量來源：醣類＋脂肪 | 阿肥快走，電量條掉更快（▼▼）；左邊醣類油罐車出發，右邊脂肪倉庫亮警示燈 | 概念（2種能量） |
-| 6 | 2-3 | 14.02 | 18.48 | 當吃進來的熱量不夠用，身體就會動用存起來的脂肪。 | 全 | 熱量不夠用 → 動用脂肪庫存 | 倉庫大門打開，貨架上一排排油油在睡覺；說到「脂肪」時⏰鬧鐘響，油油醒來伸懶腰 | 概念 |
+| 6 | 2-3 | 14.02 | 18.48 | 當吃進來的熱量不夠用，身體就會動用存起來的脂肪。 | 全 | 熱量不夠用 → 動用脂肪庫存 | 倉庫大門打開，貨架上一排排油油在睡覺（冒鼻涕泡泡）；說到「脂肪」時⏰鬧鐘響，油油嚇到、三條尾巴炸開 | 概念 |
 | 7 | 3-1 | 18.48 | 23.66 | 脂肪細胞裡存的叫三酸甘油酯，就像一根甘油掛著三條脂肪酸。 | 全 | 三酸甘油酯 ＝ 1甘油 ＋ 3脂肪酸 | 油油特寫放大；說到「甘油」標出身體＝甘油×1，說到「脂肪酸」標出尾巴＝脂肪酸×3；旁邊 1＋3 拼圖 | 概念＋數字（1＋3） |
-| 8 | 3-2 | 23.66 | 26.84 | 身體一發出「需要能量」的訊號，它就被拆開。 | 全 | 荷爾蒙訊號 → 脂肪分解 | 「需要能量！」的信飛進倉庫；✂把三條尾巴一一剪下，甘油留在原地 | 概念 |
+| 8 | 3-2 | 23.66 | 26.84 | 身體一發出「需要能量」的訊號，它就被拆開。 | 全 | 荷爾蒙訊號 → 脂肪分解 | 「需要能量！」的信飛進倉庫；✂把三條串珠尾巴一一剪下 → 甘油變成「甘油寶寶」，三條脂肪酸變成有小臉的毛毛蟲 | 概念 |
 | 9 | 3-3 | 26.84 | 30.72 | 脂肪酸跟著血液，送到肌肉等需要能量的地方。 | 全 | 脂肪酸 → 肌肉　甘油 → 肝臟 | 紅色血管高速公路：三條脂肪酸搭藍色巴士開往「肌肉▶」，甘油搭橘色小車開往「肝臟▶」 | 概念（2條路線） |
 | 10 | 4-1 | 30.72 | 34.02 | 脂肪酸來到細胞裡的發電廠：粒線體。 | 全 | 粒線體 ＝ 細胞發電廠 | 巴士停進肌肉細胞（粉紅框），發光的豆形工廠＋招牌「粒線體發電廠」，脂肪酸排隊進門 | 概念 |
-| 11 | 4-2 | 34.02 | 37.74 | 在氧氣幫忙下，它被一段一段拆解、燃燒， | 全 | 脂肪酸 ＋ 氧氣 → 燃燒 | 輸送帶上的長條脂肪酸被機器一段段切短，丟進🔥火爐；藍色 O₂ 小精靈跑進來助燃 | 概念 |
+| 11 | 4-2 | 34.02 | 37.74 | 在氧氣幫忙下，它被一段一段拆解、燃燒， | 全 | 脂肪酸 ＋ 氧氣 → 燃燒 | 輸送帶上的脂肪酸毛毛蟲被機器一顆一顆剪下珠子，丟進🔥火爐；藍色 O₂ 小精靈跑進來助燃 | 概念 |
 | 12 | 4-3 | 37.74 | 39.82 | 變成身體可以使用的能量。 | 全 | 產生能量（ATP） | 工廠吐出 ATP 電池飛到阿肥腿上，電量條回升（綠色▲） | 概念 |
 | 13 | 5-1 | 39.82 | 42.20 | 燒完之後，脂肪剩下什麼？ | 全 | 燒完剩下……？ | 發電廠後門打開，湧出灰色 CO₂ 泡泡和藍色水滴，旁邊「?」 | 提問 |
-| 14 | 5-2 | 42.20 | 46.06 | 大約84%變成二氧化碳，從呼吸吐出去； | 全 | 84% → 二氧化碳，呼出去 | CO₂ 泡泡進肺、從阿肥嘴巴呼出；說到「84%」時圓餅圖填到 84%（灰色） | 數字（84%） |
+| 14 | 5-2 | 42.20 | 46.06 | 大約84%變成二氧化碳，從呼吸吐出去； | 全 | 84% → 二氧化碳，呼出去 | 有小臉的 CO₂ 泡泡進肺、從阿肥嘴巴呼出，邊飄走邊揮手；說到「84%」時圓餅圖填到 84%（灰色） | 數字（84%） |
 | 15 | 5-3 | 46.06 | 51.22 | 剩下約16%變成水，透過尿液、汗水和呼吸排出。 | 全 | 16% → 水（尿液／汗水／水氣） | 水滴分三路：🚽尿液、💦汗水、🌫呼出的水氣；圓餅補上 16%（藍色） | 數字＋清單（16%、3條路） |
 | 16 | 6-1 | 51.22 | 55.04 | 所以脂肪大多是被「呼」出去的，不是流汗流掉的。 | 全 | 脂肪主要是「呼」出去的！ | 公園裡阿肥深呼吸，嘴邊飄出小 CO₂ 泡泡，💡恍然大悟；開場的「💦流汗」選項被劃掉＋紅色✕ | 結論 |
 | 17 | 6-2 | 55.04 | 59.12 | 長期維持熱量赤字，才是減脂的關鍵。 | 全 | 長期熱量赤字＝減脂關鍵（副字：刻意大口喘氣不會多燒脂肪） | 天平：消耗🚶那邊略重、攝取🍱那邊略輕；底下「規律走路・好好吃飯」；油油揮手👋道別 | 結論 |
